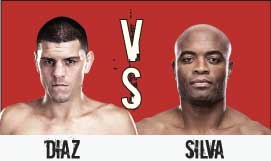
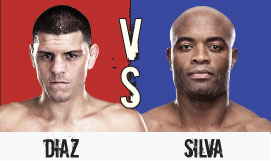
Styling and Semantic changes. Static build done
static build of site is basically all done. Changed fight avatars to
show who was in which corner. Added more buttons and color coded them
so you can pick which fighter in which corner will win and how.

Also on the index page changed the call to action kind of area to help
explain what the site is and how to use it.

Also changed all buttons to look much better for now.

diff --git a/Projects/QCP/app/css/main.css b/Projects/QCP/app/css/main.css
@@ -3,6 +3,8 @@
 #FDFBEC = yellow bg
 #6EBE46 = green
 #F6F7F7 = div bg white
+#BA2F2B = red
+#2C37B7 = blue
 */
 
 /*Reset*/
@@ -12,7 +14,6 @@
 }
 
 /*normals*/
-
 body{
 	background-color:#FDFBEC;
 }
@@ -43,8 +44,40 @@ a{
 	text-decoration: none;
 }
 
-/*index.html Main Header*/
+button.fight {
+	font-family: Arial, Helvetica, sans-serif;
+	font-size: 10px;
+	color: #fdfbec;
+	padding: 4px 11px;
+	background: -moz-linear-gradient(
+		top,
+		#5163ad 0%,
+		#6884f7);
+	background: -webkit-gradient(
+		linear, left top, left bottom,
+		from(#5163ad),
+		to(#6884f7));
+	-moz-border-radius: 1px;
+	-webkit-border-radius: 1px;
+	border-radius: 1px;
+	border: 2px solid #1f2022;
+	-moz-box-shadow:
+		0px 1px 3px rgba(000,000,000,0),
+		inset 0px 0px 3px rgba(255,255,255,0.5);
+	-webkit-box-shadow:
+		0px 1px 3px rgba(000,000,000,0),
+		inset 0px 0px 3px rgba(255,255,255,0.5);
+	box-shadow:
+		0px 1px 3px rgba(000,000,000,0),
+		inset 0px 0px 3px rgba(255,255,255,0.5);
+	text-shadow:
+		0px -1px 0px rgba(000,000,000,0),
+		0px 1px 0px rgba(255,255,255,0);
+}
 
+
+
+/*index.html Main Header*/
 .title{
 	vertical-align: middle;
 	text-align: center;
@@ -53,7 +86,6 @@ a{
 }
 
 /*Navigation*/
-
 .leftNav{
 	float: left;
 	margin-left: 1%;
@@ -85,7 +117,6 @@ a{
 
 
 /*Front page call to action*/
-
 .happeningNow{
 	height: 300px;
 	width: 570px;
@@ -104,16 +135,45 @@ a{
 #picknow{
 	width:150px;
 	height:240px;
+	font-family: Arial, Helvetica, sans-serif;
+	font-size: 21px;
+	color: #ffffff;
+	padding: 30px 8px;
+	background: -moz-linear-gradient(
+		top,
+		#6dbe47 0%,
+		#365c23);
+	background: -webkit-gradient(
+		linear, left top, left bottom,
+		from(#6dbe47),
+		to(#365c23));
+	-moz-border-radius: 1px;
+	-webkit-border-radius: 1px;
+	border-radius: 1px;
+	border: 4px solid #171717;
+	-moz-box-shadow:
+		0px 1px 3px rgba(000,000,000,0.5),
+		inset 0px 0px 10px rgba(087,087,087,0.7);
+	-webkit-box-shadow:
+		0px 1px 3px rgba(000,000,000,0.5),
+		inset 0px 0px 10px rgba(087,087,087,0.7);
+	box-shadow:
+		0px 1px 3px rgba(000,000,000,0.5),
+		inset 0px 0px 10px rgba(087,087,087,0.7);
+	text-shadow:
+		0px -1px 0px rgba(000,000,000,0.4),
+		0px 1px 0px rgba(255,255,255,0.3);
+
 }
 
 
 /*Upcoming fights*/
-
 .upcoming{
+	border: 2px solid #939191;
 	height:600px;
 	width: 600px;
-	border: 2px solid #939191;
 	float: right;
+	clear: right;
 	padding: 10px;
 	margin-right: 5%;
 	margin-top: 2%;
@@ -132,29 +192,36 @@ a{
 	width: 100px;
 }
 
+.column1{
+	float: left;
+}
+
+.column2{
+	float: right;
+}
+
 
 /*Event area*/
-
-.eveContainer{
+.event{
 	border: 2px solid #939191;
+	width:800px;
+	height: 460px;
 	float:left;
 	clear: left;
-	width:760px;
 	margin-left: 5%;
 	margin-top: 2%;
-	height: 460px;
 	padding: 10px;
 	background-color: #F6F7F7;
 }
 
 .row1{
 	padding: 10px;
-	padding-left: 36px;
+	padding-left: 60px;
 }
 
 .row2{
 	padding: 10px;
-	padding-left: 36px;
+	padding-left: 60px;
 }
 
 .fight1form{
@@ -165,14 +232,25 @@ a{
 .fight2form{
 	float: right;
 	text-align: left;
+	padding-right: 28px;
+}
+
+.redChoice{
+	color: white;
+	background-color: #BA2F2B;
+}
+
+.blueChoice{
+	color: white;
+	background-color: #2C37B7;
 }
 
 /* Chatroom area  */
 
 .chatContainer{
 	border: 2px solid #939191;
-	height: 570px;
-	width: 435px;
+	height: 550px;
+	width: 405px;
 	float: right;
 	margin-right: 5%;
 	margin-top: 2%;
@@ -181,7 +259,7 @@ a{
 }
 
 .chatroom{
-	height: 520px;
+	height: 480px;
 	overflow: scroll;
 	background-image: url(../images/bg.png);
 }
@@ -189,11 +267,12 @@ a{
 .messageArea{
 	margin-top: 3px;
 	margin-bottom: 3px;
+	font-size: 89%;
 }
 
 .chatForm{
 	position: absolute;
-	right: 600px;
+	right: 200px;
 	bottom:102px;
 }
 

diff --git a/Projects/QCP/app/views/event.html b/Projects/QCP/app/views/event.html
@@ -1,12 +1,17 @@
-<div class="eveContainer">
+<div class="event">
 <h2>Event Page</h2>
 <div class="eventContainer">
 	<div class="row1">
 		<div class="fight1form">
-			<form ng-submit="choose()">
-				<p><button>Submission</button></p>
-				<p><button>(T)KO</button></p>
-				<p><button>Decision</button></p>
+			<form class="redChoice" ng-submit="choose()">
+				<p><button class="fight">Submission</button></p>
+				<p><button class="fight">(T)KO</button></p>
+				<p><button class="fight">Decision</button></p>
+			</form>
+			<form class="blueChoice" ng-submit="choose()">
+				<p><button class="fight">Submission</button></p>
+				<p><button class="fight">(T)KO</button></p>
+				<p><button class="fight">Decision</button></p>
 			</form>
 		</div>
 
@@ -15,31 +20,47 @@
 		<img src="images/fight2.jpg"/>
 
 		<div class="fight2form">
-			<form ng-submit="choose()">
-				<p><button>Submission</button></p>
-				<p><button>(T)KO</button></p>
-				<p><button>Decision</button></p>
+			<form class="redChoice" ng-submit="choose()">
+				<p><button class="fight">Submission</button></p>
+				<p><button class="fight">(T)KO</button></p>
+				<p><button class="fight">Decision</button></p>
+			</form>
+			<form class="blueChoice" ng-submit="choose()">
+				<p><button class="fight">Submission</button></p>
+				<p><button class="fight">(T)KO</button></p>
+				<p><button class="fight">Decision</button></p>
 			</form>
 		</div>
 	</div>
 
 	<div class="row2">
 		<div class="fight1form">
-			<form ng-submit="choose()">
-				<p><button>Submission</button></p>
-				<p><button>(T)KO</button></p>
-				<p><button>Decision</button></p>
+			<form class="redChoice" ng-submit="choose()">
+				<p><button class="fight">Submission</button></p>
+				<p><button class="fight">(T)KO</button></p>
+				<p><button class="fight">Decision</button></p>
+			</form>
+			<form class="blueChoice" ng-submit="choose()">
+				<p><button class="fight">Submission</button></p>
+				<p><button class="fight">(T)KO</button></p>
+				<p><button class="fight">Decision</button></p>
 			</form>
 		</div>
 
 		<img src="images/fight3.jpg"/>
-		<img src="images/fight3.jpg"/>
-		
+		<img src="images/fight4.jpg"/>
+
 		<div class="fight2form">
-			<form ng-submit="choose()">
-				<p><button>Submission</button></p>
-				<p><button>(T)KO</button></p>
-				<p><button>Decision</button></p>
+			<form class="redChoice" ng-submit="choose()">
+				<p><button class="fight">Submission</button></p>
+				<p><button class="fight">(T)KO</button></p>
+				<p><button class="fight">Decision</button></p>
+			</form>
+			<form class="blueChoice" ng-submit="choose()">
+				<p><button class="fight">Submission</button></p>
+				<p><button class="fight">(T)KO</button></p>
+				<p><button class="fight">Decision</button></p>
+			</form>
 			</form>
 		</div>
 	</div>

diff --git a/Projects/QCP/app/views/home.html b/Projects/QCP/app/views/home.html
@@ -1,19 +1,18 @@
 <!-- Home index view -->
 <div class="topSection">
 	<div class="tagline">
-		<h4>Think you're a fight expert?</h4>
-		<h4>Look into your crystal ball and</h4>
-		<h4>CHOOSE A VICTOR!</h4>
+		<h3>Think you're a fight expert?</h3>
+		<h3>Look into your crystal ball and</h3>
+		<h3>CHOOSE A VICTOR!</h3>
 	</div>
-
 	<div class="signedIn">
-		<h5>Sign in with Twitter!</h5>
-		<h5>Hey, {{data.twitter.username}} !</h5>
+		<h5>Select whatever combat sports event is currently playing</h5>
+		<h5>And select which corner, red or blue, you think is going to win the fight.</h5>
+		<h5>See who in the world agrees or disagrees with your predictions!</h5>
 	</div>
-
 </div>
 
-
+<!-- Call to Action -->
 <div class="happeningNow">
 	<h2>Happening NOW!</h2>
 	<h3>UFC 182</h3>
@@ -28,17 +27,25 @@
 <div class="upcoming">
 	<h2>Upcoming Events</h2>
 	<div>
-		<div class="floatLeft">
-			<h3>UFC 183</h3>
-			<h4>January 18, 2015</h4>
+		<!-- Upcoming fights columns -->
+		<div class="column1">
+			<h4>UFC 183</h4>
+			<h5>January 18, 2015</h5>
+			<img src="images/fight4.jpg"/>
+
+			<h4>UFC 184</h4>
+			<h5>January 31, 2015</h5>
 			<img src="images/fight2.jpg"/>
 		</div>
-			
-		<div class="floatRight">
-			<h3>UFC 184</h3>
-			<h4>January 31, 2015</h4>
+		
+		<div class="column2">
+			<h4>UFC 183</h4>
+			<h5>January 18, 2015</h5>
+			<img src="images/fight2.jpg"/>
+
+			<h4>UFC 184</h4>
+			<h5>January 31, 2015</h5>
 			<img src="images/fight3.jpg"/>
 		</div>
-			
 	</div>
 </div>
